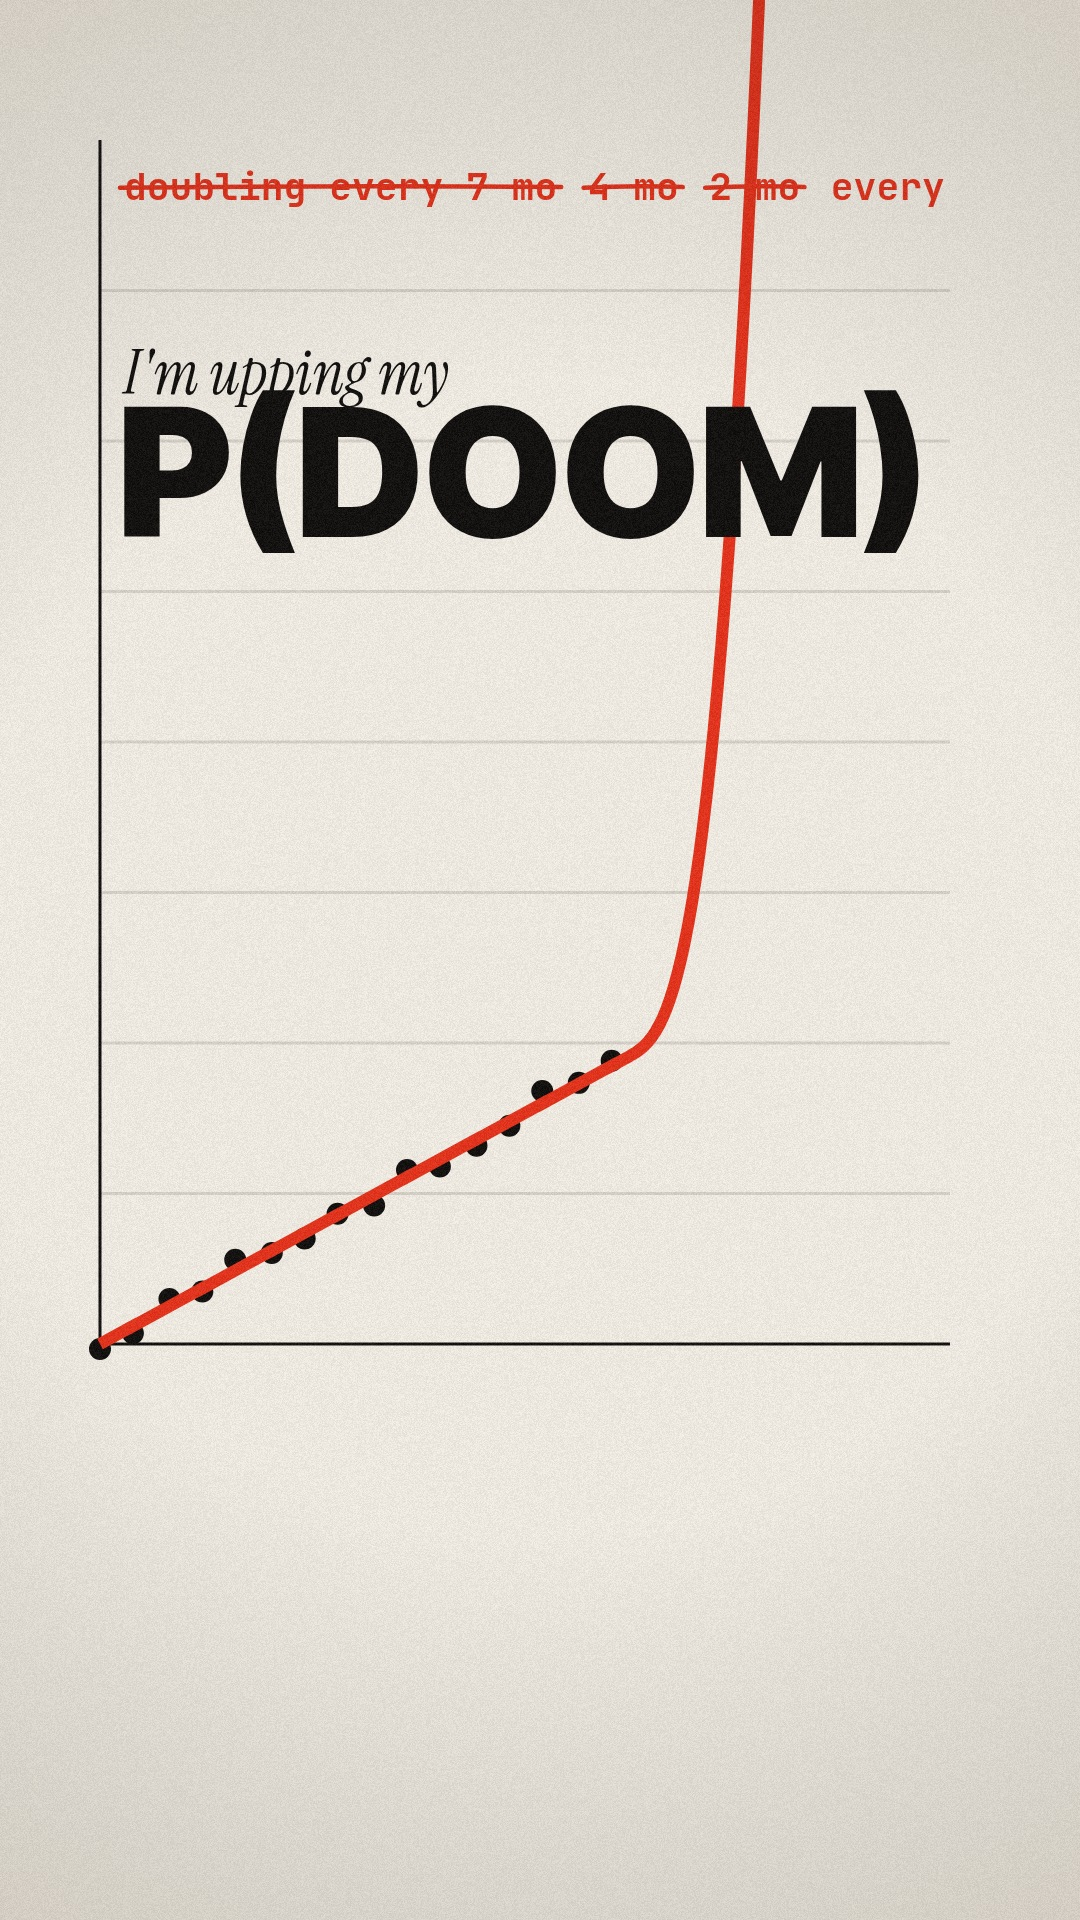
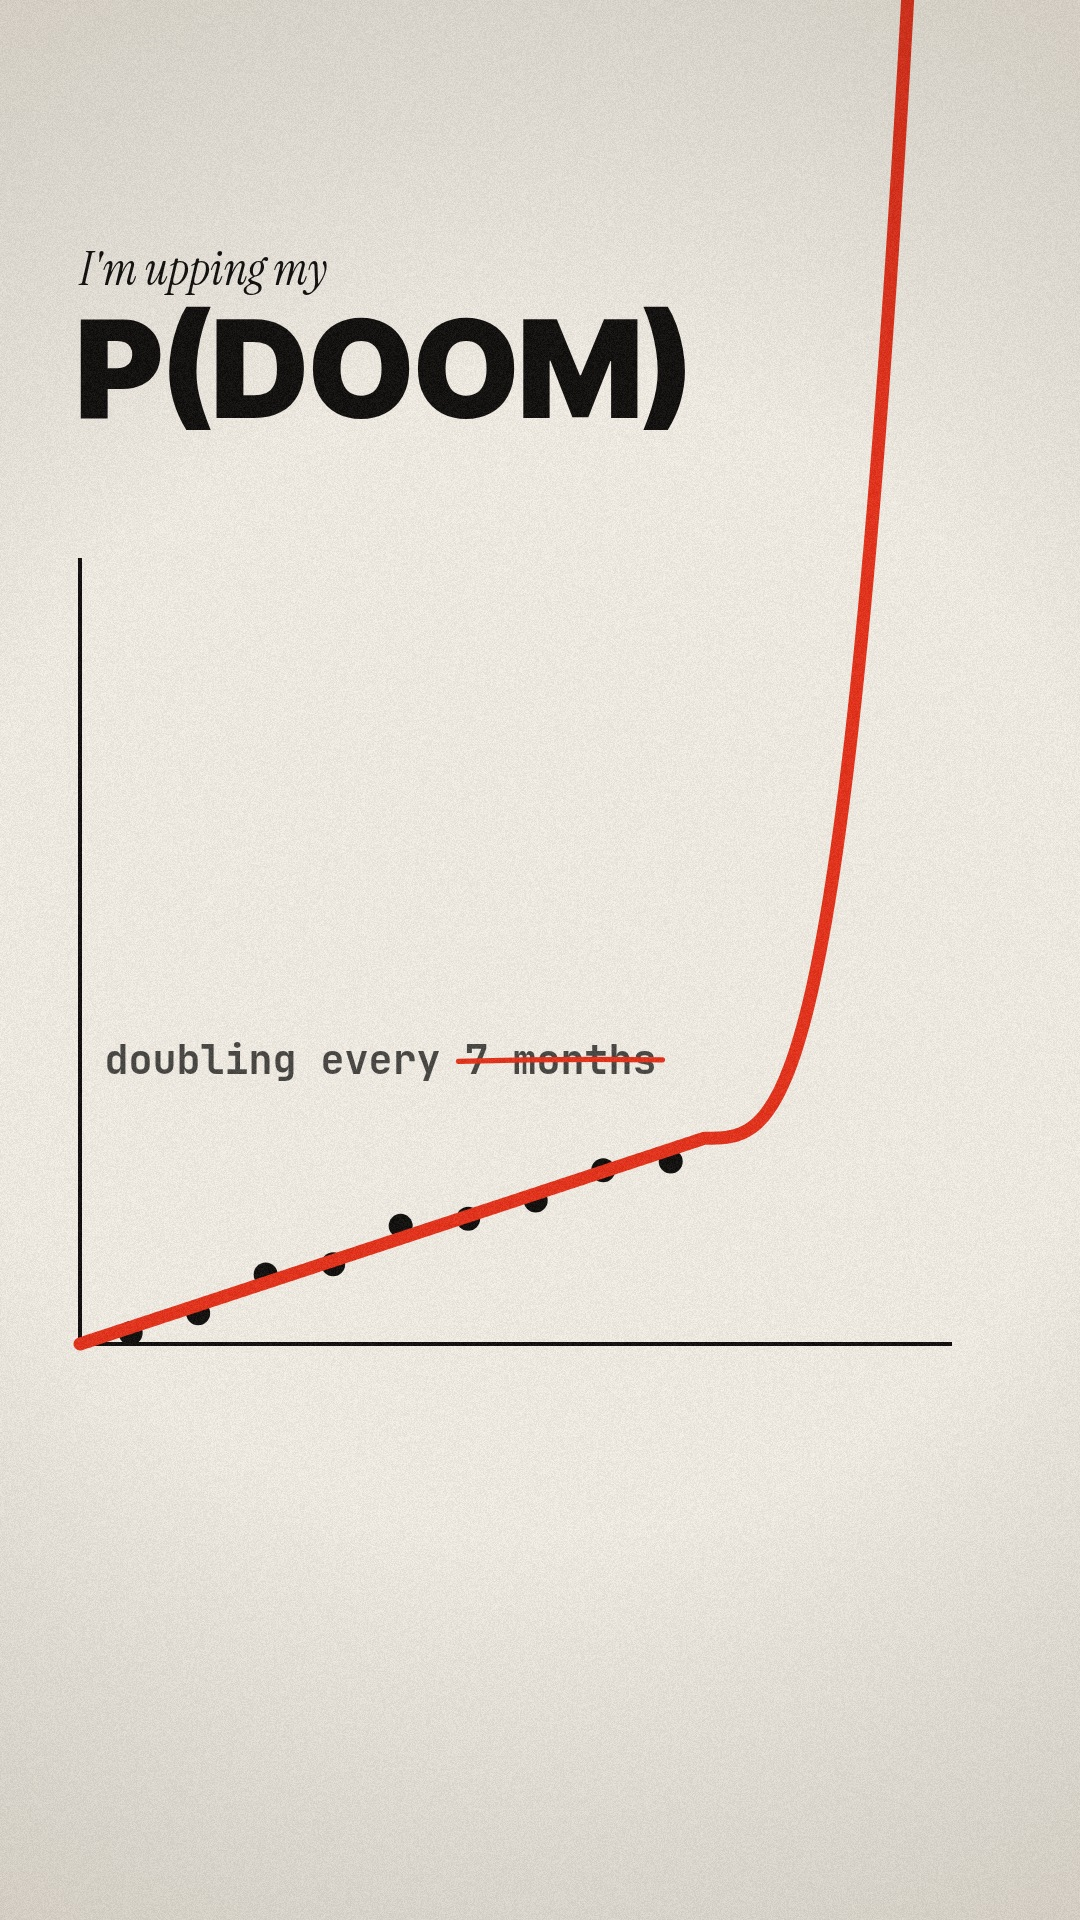
errata: decluttered the curve cover
Claude-Session: https://claude.ai/code/session_01DPYxQL4ycSufkUJ6o7QaWc

Changed region(s): [[0.0611, 0.0, 0.8861, 0.7188]]

diff --git a/errata/thumbs2.html b/errata/thumbs2.html
@@ -47,27 +47,32 @@ D.redacted = () => {
   grain(false);
 };
 
-// 2. THE CURVE: a straight line on a log chart, until it isn't.
+// 2. THE CURVE: a straight line on a log chart, until it isn't. Kept sparse: axes, a few points, one redline.
 D.curve = () => {
   bg(P.paper);
-  const x0 = B.x + (TALL ? 30 : 20), x1 = B.x + B.w, y1 = TALL ? H * .70 : H - 60, y0 = TALL ? 140 : 30;
-  X.strokeStyle = P.ink; X.lineWidth = 3;
-  X.beginPath(); X.moveTo(x0, y0); X.lineTo(x0, y1); X.lineTo(x1, y1); X.stroke();
-  X.globalAlpha = .12; for (let k = 1; k < 8; k++) { const y = y1 - (y1 - y0) * k / 8; X.beginPath(); X.moveTo(x0, y); X.lineTo(x1, y); X.stroke(); } X.globalAlpha = 1;
-  const pts = []; for (let i = 0; i <= 200; i++) { const u = i / 200; const lin = u * .55; const up = u > .72 ? Math.pow((u - .72) / .28, 3) * 3 : 0; pts.push([x0 + (x1 - x0) * u * .86, y1 - (y1 - y0) * (lin * (u < .72 ? 1 : 1) * .6 + up)]); }
+  const x0 = B.x + 10, x1 = B.x + B.w, y1 = TALL ? H * .70 : H - 56, y0 = TALL ? 140 : 24;
+  X.strokeStyle = P.ink; X.lineWidth = TALL ? 4 : 3; X.lineCap = 'square';
+  X.beginPath(); X.moveTo(x0, y0 + (TALL ? 420 : 150)); X.lineTo(x0, y1); X.lineTo(x1, y1); X.stroke();
+  // steady doubling, then the knee
+  const knee = .74, f = u => u < knee ? u * .42 : knee * .42 + Math.pow((u - knee) / (1 - knee), 3.2) * 2.2;
+  const pt = u => [x0 + (x1 - x0) * u * (TALL ? .97 : .9), y1 - (y1 - y0) * f(u) * (TALL ? .55 : .62)];
   const r = rng(5); X.fillStyle = P.ink;
-  for (let i = 0; i < 16; i++) { const u = i / 15 * .7, [x, y] = pts[Math.round(u * 200)]; X.beginPath(); X.arc(x, y + (r() - .5) * 26, TALL ? 11 : 8, 0, 7); X.fill(); }
-  X.strokeStyle = P.red; X.lineWidth = TALL ? 12 : 9; X.lineJoin = 'round'; X.beginPath(); pts.forEach(([x, y], i) => i ? X.lineTo(x, y) : X.moveTo(x, y)); X.stroke();
-  const s = fitSize('P(DOOM)', B.w * (TALL ? .92 : .6), 900, SANS);
-  const ty = y0 + (TALL ? 200 : 110);
-  txt("I'm upping my", x0 + 24, ty + s * .3, 400, s * .34, SERIF, P.ink, { it: true });
-  txt('P(DOOM)', x0 + 18, ty + s * 1.1, 900, s, SANS, P.ink);
-  const ns = TALL ? 38 : 26; let ny = y0 + (TALL ? 60 : 44);
-  let x = x0 + 24;
-  for (const [t, dead] of [['doubling every 7 mo', 1], ['4 mo', 1], ['2 mo', 1], ['every', 0]]) {
-    font(700, ns, MONO); if (x + X.measureText(t).width > B.x + B.w) { x = x0 + 24; ny += ns * 1.5; }
-    const w = txt(t, x, ny, 700, ns, MONO, P.red); if (dead) pen(x - 4, ny - ns * .32, x + w + 4, ny - ns * .34, ns * .12); x += w + ns * .8;
-  }
+  for (let i = 0; i < 9; i++) { const [x, y] = pt(.06 + i * .08); X.beginPath(); X.arc(x, y + (r() - .5) * (TALL ? 30 : 22), TALL ? 12 : 9, 0, 7); X.fill(); }
+  X.strokeStyle = P.red; X.lineWidth = TALL ? 13 : 10; X.lineJoin = X.lineCap = 'round'; X.beginPath();
+  for (let i = 0; i <= 300; i++) { const [x, y] = pt(i / 300); if (y < -50) break; i ? X.lineTo(x, y) : X.moveTo(x, y); }
+  X.stroke();
+  // title in the empty upper-left
+  const s = fitSize('P(DOOM)', B.w * (TALL ? .7 : .56), 900, SANS);
+  const ty = TALL ? y0 + 120 : y0 + 60;
+  txt("I'm upping my", x0 + (TALL ? 0 : 10), ty + s * .18, 400, s * .34, SERIF, P.ink, { it: true });
+  txt('P(DOOM)', x0 + (TALL ? -4 : 4), ty + s * 1.16, 900, s, SANS, P.ink);
+  // one redline at the knee
+  const ns = TALL ? 40 : 28, [kx, ky] = pt(knee);
+  const label = 'doubling every 7 months';
+  font(700, ns, MONO); const lw = X.measureText(label).width;
+  const lx = kx - lw - ns * 1.2, ly = ky - ns * 1.6;
+  txt(label, lx, ly, 700, ns, MONO, P.ink, { a: .75 });
+  pen(lx + X.measureText('doubling every ').width - 6, ly - ns * .32, lx + lw + 6, ly - ns * .36, ns * .13);
   grain(false);
 };
 
